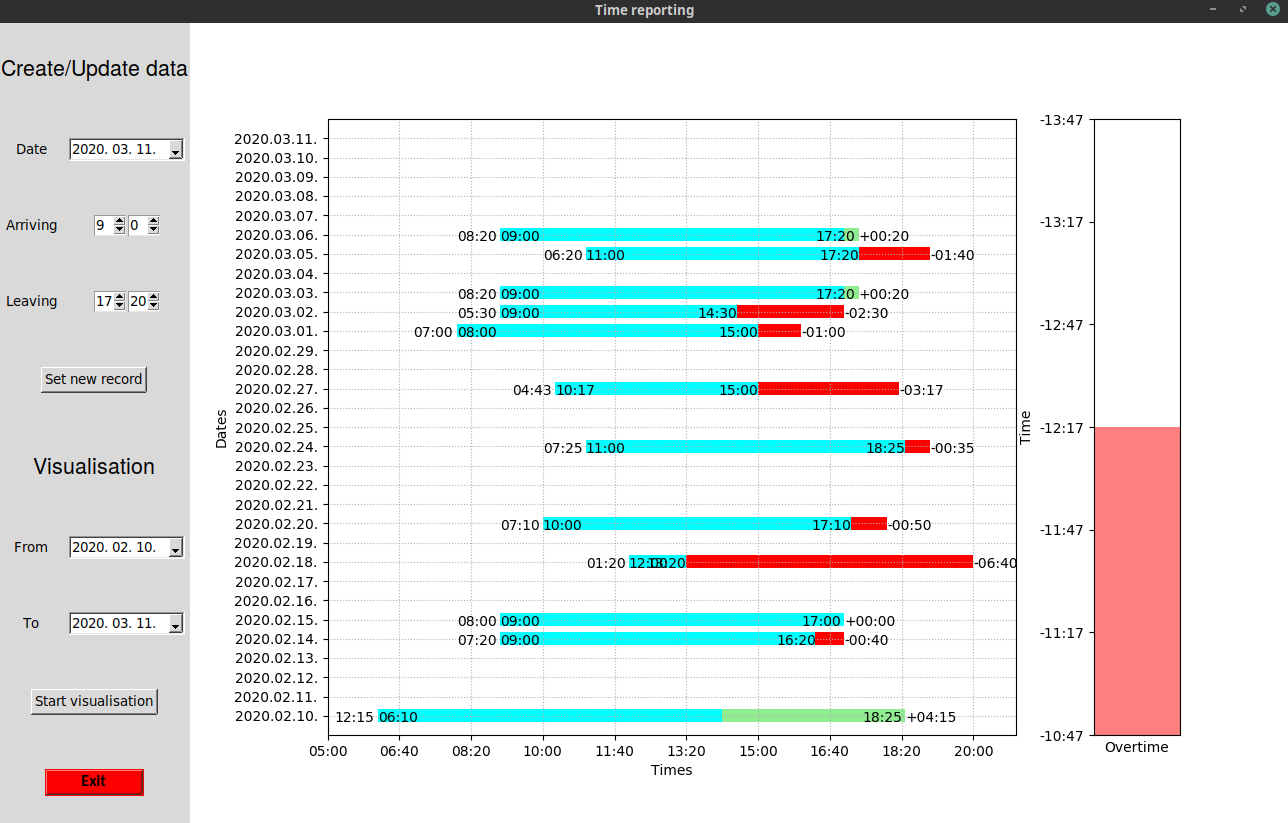
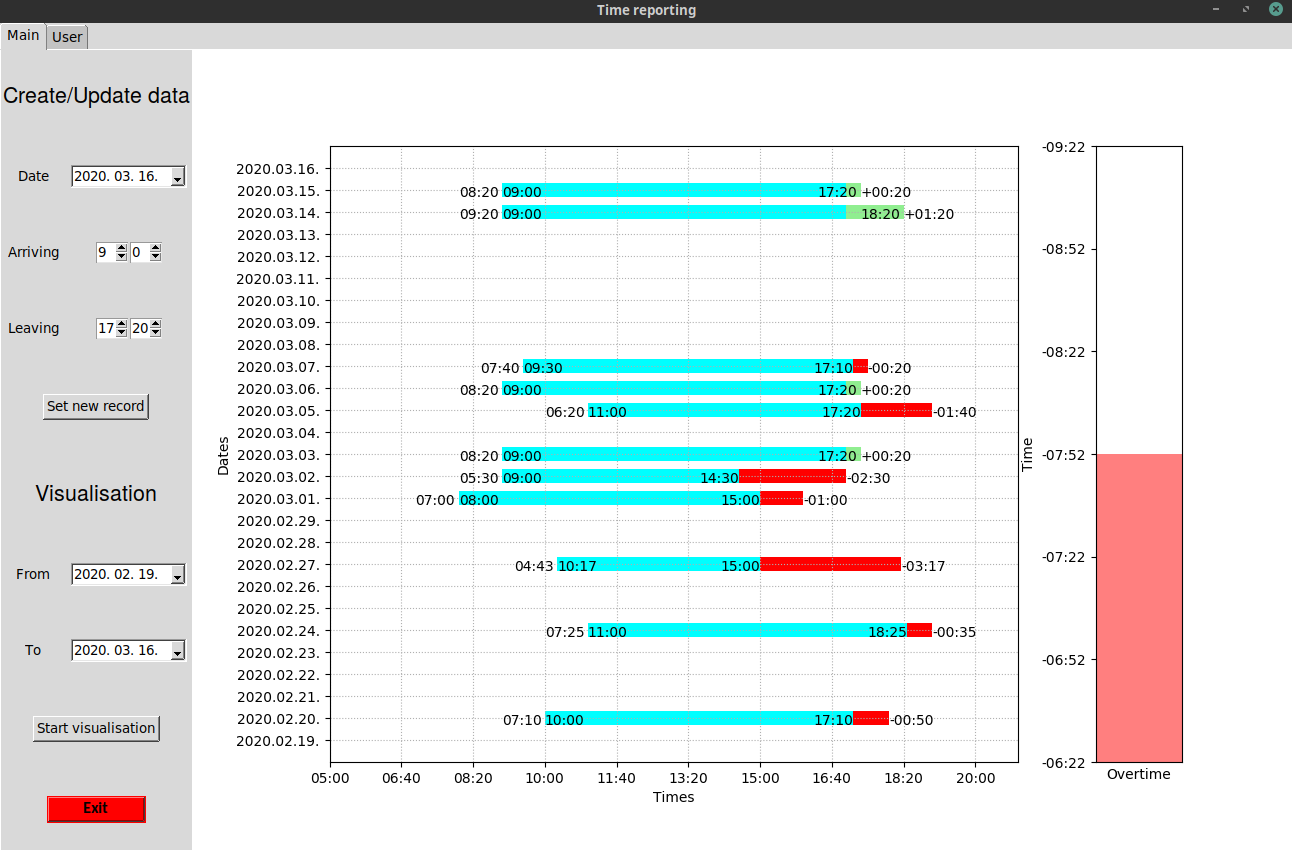
Add some time validators and tabs

diff --git a/gui.py b/gui.py
@@ -42,6 +42,9 @@ MAIN_LOGGER = ColoredLogger(os.path.basename(__file__), log_file_path=PATH_OF_LO
 PATH_OF_WINDOW_ICON = os.path.join(PATH_OF_FILE_DIR, "imgs", "window_icon.png")
 matplotlib.use("TkAgg")
 
+# Set test data set
+TEST_CONFIG_FILE = os.path.join(PATH_OF_FILE_DIR, "conf", "time_data_test.json")
+
 
 class TimePicker(ttk.Frame):
     """
@@ -71,10 +74,9 @@ class TimePicker(ttk.Frame):
         self.hour.grid()
         self.min.grid(row=0, column=1)
 
-    def trace_var(self, *args):
+    def trace_var(self):
         """
         Count the hours in case of 59 minutes.
-        :param args: Pass all arguments.
         :return: None
         """
 
@@ -106,6 +108,7 @@ class TimePicker(ttk.Frame):
                 title="Hour error",
                 message="'{}' is not a valid hour.".format(int(self.hourstr.get())),
             )
+            return None
         # If the minute counter is greater than 59 or it is less than 0.
         if 59 < int(self.minstr.get()) or int(self.minstr.get()) < 0:
             # Show an error message box and return nothing.
@@ -113,6 +116,7 @@ class TimePicker(ttk.Frame):
                 title="Hour error",
                 message="'{}' is not a valid minute.".format(int(self.minstr.get())),
             )
+            return None
         # The ranges of hour and minute counters are valid so return the values.
         return "{:02d}:{:02d}".format(int(self.hourstr.get()), int(self.minstr.get()))
 
@@ -158,12 +162,12 @@ class MainWindow(object):
         self.c_logger = c_logger
         self.main_window = main_window
         self.c_logger.info("Get main window: {}".format(main_window))
-        self.main_window.title("Time reporting")
-        self.c_logger.info("Set window title to 'Time report'")
-        self.main_window.protocol("WM_DELETE_WINDOW", self.__disable_event)
 
         self.c_logger.info("Creating DataProcessor instance.")
-        self.data_processor = DataProcessor(c_logger=MAIN_LOGGER)
+        if test_run:
+            self.data_processor = DataProcessor(c_logger=MAIN_LOGGER, config=TEST_CONFIG_FILE)
+        else:
+            self.data_processor = DataProcessor(c_logger=MAIN_LOGGER)
         self.c_logger.info("DataProcessor instance successfully created.")
 
         self.__set_resizable()
@@ -172,19 +176,6 @@ class MainWindow(object):
         self.__create_visualisation_gui_section()
 
         self.__start_visualisation()
-
-    def __disable_event(self):
-        """
-        Disable the use the 'X' icon to exit.
-        Forcing to use the Exit button instead of 'X' icon.
-        :return: None
-        """
-
-        self.c_logger.warning("Showing error message box.")
-        messagebox.showerror(
-            title="Exit error", message="Please use the 'Exit' button instead of [X]!",
-        )
-        self.c_logger.info("Error message box has been closed.")
 
     def __set_resizable(self):
         """
@@ -239,7 +230,7 @@ class MainWindow(object):
         set_button.grid(row=8, column=0, columnspan=2)
 
         set_button = ttk.Button(
-            self.main_window, text="Exit", style="C.TButton", command=lambda: self.__quit(),
+            self.main_window, text="Exit", style="C.TButton", command=lambda: self.quit_from_app(),
         )
         set_button.grid(row=9, column=0, columnspan=2)
 
@@ -297,7 +288,7 @@ class MainWindow(object):
         self.plot()
         self.c_logger.info("The figure has been successfully plotted to TK canvas.")
 
-    def __quit(self):
+    def quit_from_app(self):
         """
         Quit from application.
         :return: None
@@ -361,10 +352,26 @@ class MainWindow(object):
                 current_selected_date, arriving_time, leaving_time
             )
         )
+        if not arriving_time or not leaving_time:
+            self.c_logger.error(
+                "The set arriving/leaving time was not valid. "
+                "The record won't be set to data-set."
+            )
+            return
+        if not self.data_processor.validate_time_range(arriving_time, leaving_time):
+            error_msg = (
+                "The getting time range is not correct. "
+                "The arriving time is earlier than leaving."
+            )
+            self.c_logger.error(error_msg)
+            messagebox.showerror("Wring time range", error_msg)
+            return
         self.c_logger.info("Starting to set the new record into Json file.")
         self.data_processor.set_time(
             current_selected_date.replace(" ", ""), arriving_time, leaving_time
         )
+
+        self.__start_visualisation()
 
         self.c_logger.info("Successfully set the times into Json file.")
 
@@ -453,6 +460,8 @@ class MainWindow(object):
         self.c_logger.info("Staring to get time from time picker.")
         self.c_logger.debug("The getting time picker instance: {}".format(time_picker_instance))
         time_from_time_picker = time_picker_instance.get_time()
+        if not time_from_time_picker:
+            self.c_logger.error("The set time was not valid!")
         self.c_logger.info("Successfully get the time from time picker.")
         self.c_logger.debug("The getting time from time picker: {}".format(time_from_time_picker))
         return time_from_time_picker
@@ -472,14 +481,22 @@ class MainWindow(object):
         self.c_logger.info("The complete figure has been integrated into GUI successfully.")
 
 
-####
-# ENTRY POINT
-####
+class UserConfigTab(object):
+    """
+    TODO: Fill this class with content.
+    This tab contains all User configuration options.
+    Planned options:
+        - Name
+        - Birth date
+        - Employee number
+        - Photo
+    """
 
 
-if __name__ == "__main__":
+def main():
     window = tk.Tk()
     window.iconphoto(False, tk.PhotoImage(file=PATH_OF_WINDOW_ICON))
+    window.title("Time reporting")
     # change ttk theme to 'clam' to fix issue with downarrow button
     style = ttk.Style(window)
     style.theme_use("alt")
@@ -487,6 +504,37 @@ if __name__ == "__main__":
     style.configure(
         "C.TButton", font=("calibri", 12, "bold"), background="red",
     )
-
-    start = MainWindow(window)
+    note = ttk.Notebook(window)
+    main_tab = tk.Frame(note)
+    user_config_tab = tk.Frame(note)
+    note.add(main_tab, text="Main")
+    note.add(user_config_tab, text="User")
+    note.pack()
+    start = MainWindow(main_tab)
+    window.protocol("WM_DELETE_WINDOW", start.quit_from_app)
     window.mainloop()
+
+
+####
+# ENTRY POINT
+####
+
+
+if __name__ == "__main__":
+
+    import argparse
+
+    parser = argparse.ArgumentParser(description=__doc__)
+
+    parser.add_argument(
+        "--test",
+        dest="test_flag",
+        help="If this flag is set, the tool uses test values.",
+        action="store_true",
+    )
+
+    args = parser.parse_args()
+
+    test_run = args.test_flag
+
+    main()

diff --git a/data_processor.py b/data_processor.py
@@ -29,13 +29,24 @@ class DataProcessor(object):
     def _check_config_exist(self):
         self.c_logger.info("Start to check if getting config file exists.")
         if not os.path.isfile(self.config):
-            error_msg = "The getting '{}' config file doesn't exist.".format(self.config)
-            self.c_logger.error(error_msg)
-            raise Exception(error_msg)
+            warning_msg = "The getting '{}' config file doesn't exist.".format(self.config)
+            self.c_logger.warning(warning_msg)
+            try:
+                open(self.config, "a").close()
+            except Exception as unexpected_error:
+                self.c_logger.error(
+                    "Cannot create empty config file on '{}' path. ERROR: {}".format(
+                        self.config, unexpected_error
+                    )
+                )
+                raise unexpected_error
         self.c_logger.info("The getting '{}' config exists.".format(self.config))
 
     def get_data(self):
         self.c_logger.info("Start to get data from config Json file.")
+        if os.stat(self.config).st_size == 0:
+            self.c_logger.warning("The data Json file is empty.")
+            return [{}]
         with open(self.config, "r") as opened_file:
             json_data = json.load(opened_file)
         self.c_logger.debug(json_data)
@@ -147,6 +158,42 @@ class DataProcessor(object):
             "There is not time date for the '{}' date. Return '00:00', '00:00''".format(date)
         )
         return "00:00", "00:00"
+
+    def validate_time_range(self, arriving, leaving):
+        """
+        Validate the getting time range.
+        Eg.:
+            If the leaving time is earlier than arriving then it is a wrong time range.
+        :param arriving: Arriving time as a sting in HH:MM format
+        :param leaving: Leaving time as a sting in HH:MM format
+        :return: True if the time range is valid else False.
+        """
+
+        self.c_logger.info("Starting to validate the getting time range.")
+        self.c_logger.debug("Arriving time: {} , Leaving time: {}".format(arriving, leaving))
+
+        arriving_time = datetime.strptime(arriving, FMT)
+        arriving_time_in_sec = arriving_time.hour * 3600 + arriving_time.minute * 60
+        self.c_logger.debug(
+            "Arriving hours: {} , Arriving minutes: {}".format(
+                arriving_time.hour, arriving_time.minute
+            )
+        )
+        self.c_logger.debug("Arriving time in seconds: {}".format(arriving_time_in_sec))
+
+        leaving_time = datetime.strptime(leaving, FMT)
+        leaving_time_in_sec = leaving_time.hour * 3600 + leaving_time.minute * 60
+        self.c_logger.debug(
+            "Leaving hours: {} , Leaving minutes: {}".format(leaving_time.hour, leaving_time.minute)
+        )
+        self.c_logger.debug("Leaving time in seconds: {}".format(leaving_time_in_sec))
+
+        if leaving_time_in_sec < arriving_time_in_sec:
+            self.c_logger.info("The time range is NOT correct.")
+            return False
+
+        self.c_logger.info("The time range is correct.")
+        return True
 
 
 #  TEST SECTION

diff --git a/README.md b/README.md
@@ -6,4 +6,5 @@ Main window of tool (In progress):
 ![Main window example](imgs/main_window_example.png)
 
 
+#### The tool is in progress. It has not been released!
 TODO: Fill the README.md with content!
